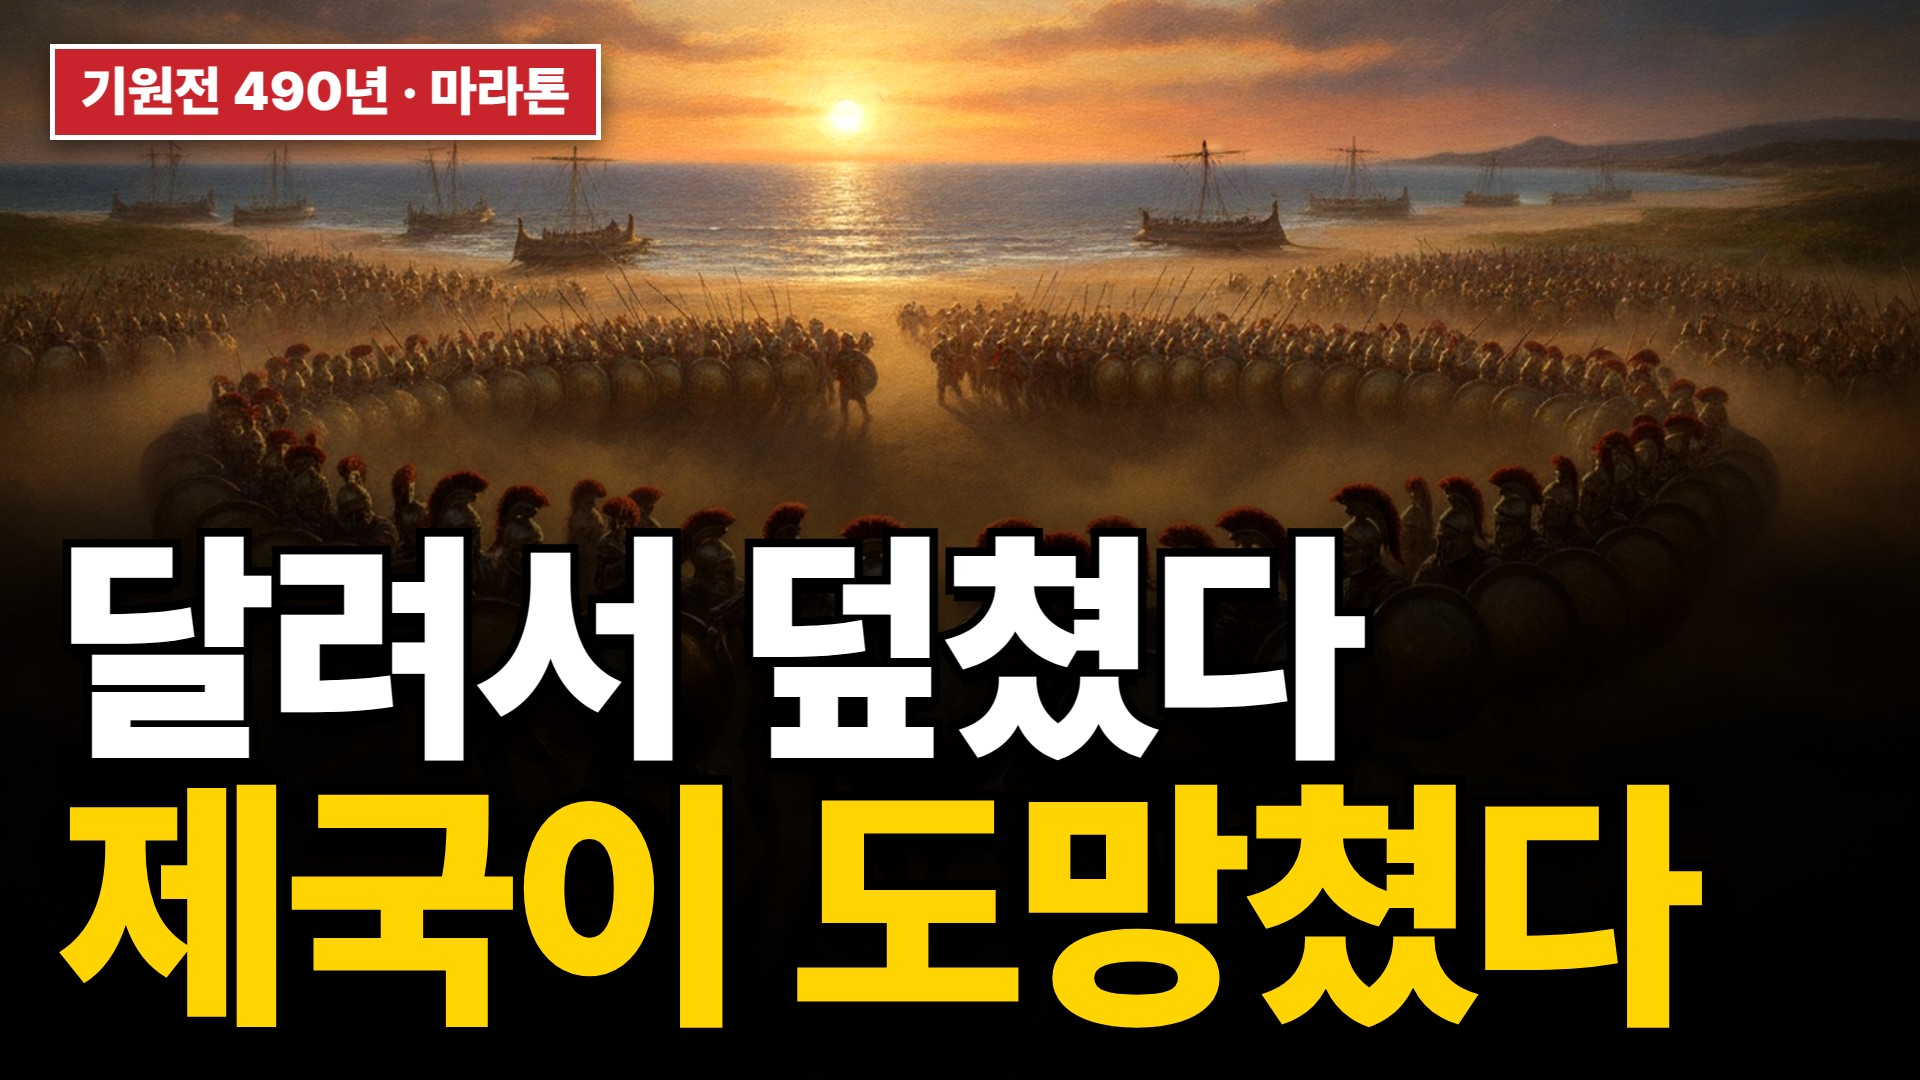
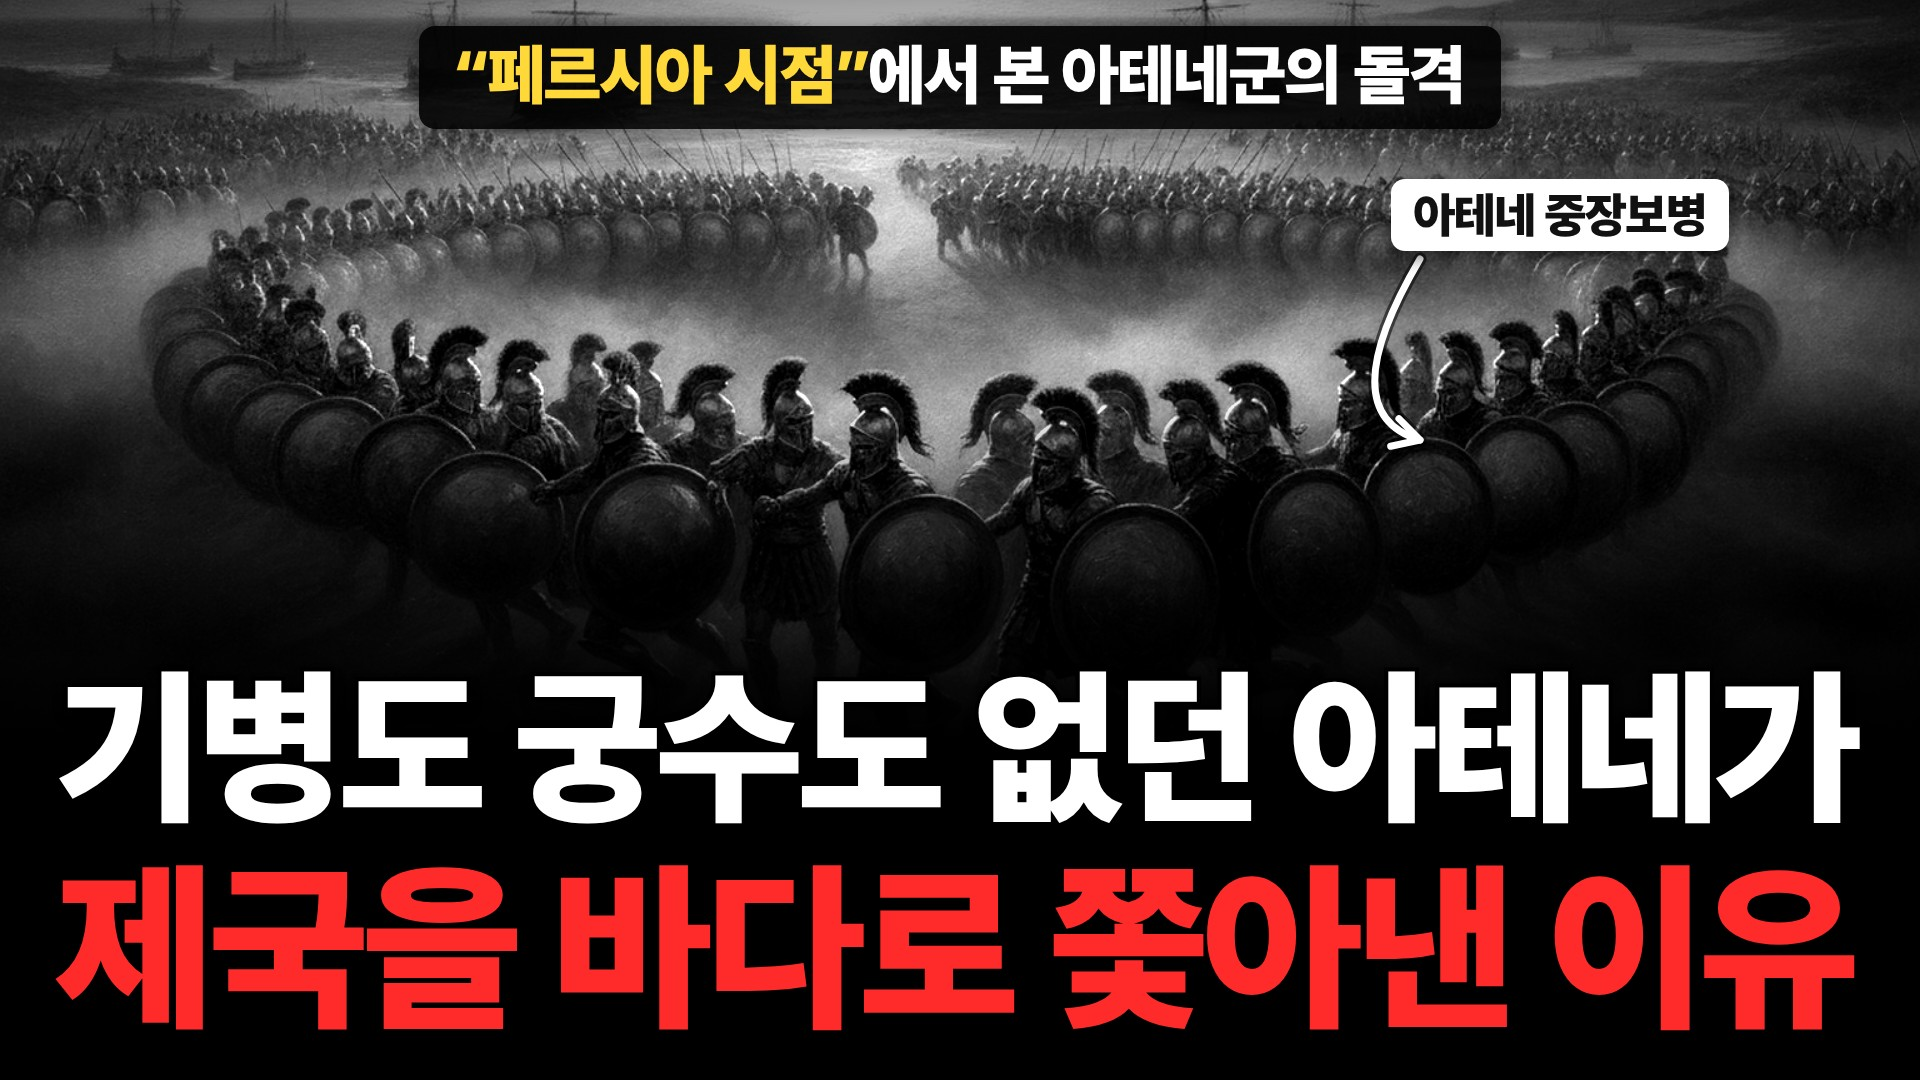
썸네일 표준 v3: 레퍼런스 '베트콩 시점' 공식 (흑백 사진 Full-Bleed · 상단 검은 박스 · 설명 라벨+화살표 · 하단 블랙 바 흰/빨강 2줄 · 재생시간 여백 제거)
Claude-Session: https://claude.ai/code/session_01SkesRQ2QoHJhKCtKZoqRh3

diff --git a/remotion/Thumbnail.tsx b/remotion/Thumbnail.tsx
@@ -1460,48 +1460,114 @@ export const ParohoThumb: React.FC<{ d: ThumbnailProps }> = ({ d }) => {
 
 
 /* =====================================================================================
- * ★★★★ 썸네일 표준 PAROHO_STD v2 (2026-11-18 사용자 지시서 docs/HOOK_STANDARD.md B항 · EP29 ep29-daejeon부터 모든 신규 롱폼 한국어 A안)
- *   - 고정 흑백 군인 얼굴 사진 전면 폐기 (반복 기시감·CTR 저하)
- *   - 에피소드 고유 메인 비주얼을 배경 전체(Full-Bleed)로 — 결정적 전황 장면(AI 재연 그림 또는 3D 지형)
- *   - 하단 다크 비네팅 위 대형 2줄 압축 카피(줄당 6~9자) — v5 대비 2.5~3배(최대 340px), 실측 폭으로 x 1720 안에 꽉 채움
- *   - 카피 프레임: '열세를 뒤집은 통쾌한 역전·기습 승리'
+ * ★★★★★ 썸네일 표준 v3 = 레퍼런스 '베트콩 시점' 공식 (2026-11-18 사용자 지시 · war-docu·map-of-war 공통 · 이후 모든 신규 롱폼 한국어 A안)
+ *   (PAROHO_V2 표 이름·필드는 그대로 두고 디자인만 교체 — 기존 등록분도 이 디자인으로 렌더)
+ *   ① 배경: 에피소드 대본 핵심 장면의 사료 사진(또는 재연 그림) Full-Bleed **흑백**(gray 기본 true) — 장면 사진 `ep/<ep>/photos/sNNN_photo_0.jpg` 그대로 지정 가능
+ *   ② 최상단 가운데: 검은 라운드 박스 한 줄 `top` — “ ” 안 문구는 노랑 강조 (예: “베트콩 시점”에서 보는 한국군의 전투력)
+ *   ③ 사진 위 흰 라벨 + 휘어진 흰 화살표 `note` {text, x, y(라벨 중심), to:[x,y](가리킬 곳)} (예: 당시 파병된 한국군)
+ *   ④ 하단: 사진이 솔리드 블랙 바닥판으로 녹아들고 그 위 2줄 카피 — Line 1 흰색 / Line 2 빨강 #FF2B2B (조금 더 크게)
+ *      글자 크기: 실측 글꼴 폭으로 좌우 56px 여백 안(1808px)을 꽉 채움, Line 2 상한 210px, Line 1은 Line 2의 94% 이하
+ *      줄당 9~13자 권장 — 120px 밑으로 내려가면 카피를 줄일 것
+ *   ⑤ 오른쪽 아래 재생시간 배지 여백 없음 (2026-11-18 사용자: 시간 표시는 넣지 않음 → 글자를 가로 끝까지)
+ *   카피 공식: top = “[적·상대] 시점”에서 본 [주인공]의 [무엇] / Line 1 = [강한 상대·불리한 전제] / Line 2 = [의외의 결과] + "~한 이유"
  * ===================================================================================== */
 export interface ThumbV2Props {
-  bg: string; // public 기준 메인 비주얼 경로 (Full-Bleed)
+  bg: string; // public 기준 배경 경로 (Full-Bleed) — 사료 사진 권장
   bgPos?: string; // object-position (기본 "50% 40%")
-  bgFilter?: string; // 기본: 살짝 대비 강조
+  bgFilter?: string; // 직접 지정하면 gray보다 우선
+  gray?: boolean; // 기본 true (흑백 다큐 사진 톤)
   line1: string; // 위 줄 (흰색)
-  line2: string; // 아래 줄 (강조색)
-  color2?: string; // 기본 #FFD400 (머스터드 옐로) — 붉은 화염 배경이면 노랑이 더 잘 보임
-  badge?: string; // 선택: 좌상단 작은 배지 (예: "1950. 7. 20 대전")
+  line2: string; // 아래 줄 (빨강)
+  color2?: string; // 기본 #FF2B2B
+  top?: string; // 최상단 검은 박스 한 줄 — “ ” 안은 노랑
+  note?: ThumbNote; // 사진 설명 라벨 + 화살표
+  badge?: string; // (이전 v2) 좌상단 붉은 배지 — 새 공식에서는 쓰지 않음
   targets?: ThumbTarget[];
   arrows?: ThumbArrow[];
-  alt?: { line1: string; line2: string; color2?: string }; // A2 카피 시안
+  alt?: { line1: string; line2: string; color2?: string; top?: string; note?: ThumbNote }; // A2 카피 시안
 }
+export type ThumbNote = { text: string; x: number; y: number; to: [number, number]; size?: number };
 export const PAROHO_V2: Record<string, ThumbV2Props> = {
-  // map-of-war(영문): 새 에피소드마다 여기에 항목을 추가하면 A안(en)이 v2 디자인으로 렌더된다. 카피는 100% 영어, 줄당 2~4단어.
-  // 예시 (war-docu EP29 대전 원본 — 배경 파일은 해당 에피소드 폴더에 있을 때만 렌더 가능):
-  // "ep01-xxx": { bg: "ep/ep01-xxx/ai/thumb_bg.jpg", bgPos: "50% 38%", line1: "THE GENERAL", line2: "KILLED A TANK", badge: "JULY 20, 1950", alt: { line1: "FIRST STRIKE", line2: "10 T-34s DOWN" } }, // ALTS:ep01-xxx
-  // EP01 마라톤 (기원전 490, 한국어판): 양익 포위 전술 비주얼 Full-Bleed — A안 = 로드맵 카피, A2 = 질문형 앵글
-  "ep01-marathon": { bg: "ep/ep01-marathon/ai/thumb_bg.jpg", bgPos: "50% 40%", line1: "달려서 덮쳤다", line2: "제국이 도망쳤다", badge: "기원전 490년 · 마라톤", alt: { line1: "기병도 궁수도 없이", line2: "어떻게 이겼을까?" } }, // ALTS:ep01-marathon
+  // 새 에피소드마다 대본 핵심 장면 사진(사료 사진이 있으면 `ep/<ep>/photos/sNNN_photo_0.jpg`, 없으면 재연 그림 thumb_bg)과
+  // 카피(top·line1·line2·note)를 이 표에 한 줄 추가 → Actions mode=thumb가 thumbnails/<ep>_ko_A.png·_ko_A2.png 렌더
+  // EP01 마라톤 (기원전 490): 고대라 사료 사진이 없어 재연 그림(thumb_bg)을 흑백으로. 헤로도토스: 아테네군에 기병·궁수 없음
+  "ep01-marathon": {
+    bg: "ep/ep01-marathon/ai/thumb_bg.jpg",
+    bgPos: "50% 45%",
+    bgFilter: "grayscale(1) contrast(1.22) brightness(1.3)", // 재연 그림이 어두워 흑백 전환 때 밝기 보정
+    top: "“페르시아 시점”에서 본 아테네군의 돌격",
+    line1: "기병도 궁수도 없던 아테네가",
+    line2: "제국을 바다로 쫓아낸 이유",
+    note: { text: "아테네 중장보병", x: 1560, y: 215, to: [1420, 440] },
+    alt: { line1: "달려서 덮쳤다", line2: "제국이 도망쳤다" }, // ALTS:ep01-marathon
+  },
 };
-const V2 = { left: 60, safeRight: 200, bottom: 40, max: 340, min: 120, gap: -0.06 };
-// 영문 카피 글꼴 (사용자 표준: 영문 Montserrat Black) — map-of-war 이식 때 추가 (2026-11-18)
-const V2_EN_FONT = "'Montserrat', 'Anton', sans-serif";
+
+const V2_EN_FONT = "'Montserrat', 'Anton', sans-serif"; // 영문판 글꼴 (참고용)
+const V3 = { side: 56, bottom: 30, max2: 210, max1: 200, min: 110, ratio1: 0.94, gap: 0.02, red: "#FF2B2B", yellow: "#FFD83A" };
+const V3TopLine: React.FC<{ text: string; size: number; font: string }> = ({ text, size, font }) => {
+  // “…” 구간(따옴표 포함)은 노랑, 나머지는 흰색
+  const parts = text.split(/(“[^”]*”|"[^"]*")/).filter(Boolean);
+  return (
+    <div style={{ position: "absolute", top: 26, left: 0, right: 0, display: "flex", justifyContent: "center" }}>
+      <div style={{ background: "rgba(0,0,0,.9)", borderRadius: 16, padding: `${Math.round(size * 0.2)}px ${Math.round(size * 0.55)}px ${Math.round(size * 0.26)}px`, fontFamily: font, fontWeight: 900, fontSize: size, lineHeight: 1.1, letterSpacing: "-0.02em", whiteSpace: "nowrap", color: "#fff", boxShadow: "0 6px 20px rgba(0,0,0,.5)" }}>
+        {parts.map((p, i) => <span key={i} style={{ color: /^[“"]/.test(p) ? V3.yellow : "#fff" }}>{p}</span>)}
+      </div>
+    </div>
+  );
+};
+const V3Note: React.FC<{ n: ThumbNote; font: string; w: number }> = ({ n, font, w }) => {
+  const size = n.size ?? 48;
+  const bw = w * size + size * 0.9;
+  const bh = size * 1.5;
+  // 라벨 가장자리(가리킬 곳 쪽)에서 출발하는 휘어진 화살표
+  const [tx, ty] = n.to;
+  const sx = Math.max(n.x - bw / 2 + 20, Math.min(n.x + bw / 2 - 20, tx));
+  const sy = ty > n.y ? n.y + bh / 2 + 8 : n.y - bh / 2 - 8;
+  const dx = tx - sx, dy = ty - sy;
+  const cx = sx + dx * 0.15 + (dy > 0 ? -1 : 1) * Math.abs(dy) * 0.5 * Math.sign(dx || 1);
+  const cy = sy + dy * 0.85;
+  const ang = Math.atan2(ty - cy, tx - cx);
+  const L = 30;
+  const head = `M ${tx} ${ty} L ${tx - L * Math.cos(ang - 0.5)} ${ty - L * Math.sin(ang - 0.5)} M ${tx} ${ty} L ${tx - L * Math.cos(ang + 0.5)} ${ty - L * Math.sin(ang + 0.5)}`;
+  const path = `M ${sx} ${sy} Q ${cx} ${cy} ${tx} ${ty}`;
+  return (
+    <>
+      <svg width={CW} height={1080} style={{ position: "absolute", inset: 0 }}>
+        {[["#000", 13, 0.55], ["#fff", 7, 1]].map(([c, sw, op], i) => (
+          <g key={i} fill="none" stroke={c as string} strokeWidth={sw as number} strokeLinecap="round" strokeLinejoin="round" opacity={op as number}>
+            <path d={path} />
+            <path d={head} />
+          </g>
+        ))}
+      </svg>
+      <div style={{ position: "absolute", left: n.x - bw / 2, top: n.y - bh / 2, width: bw, height: bh, background: "#fff", borderRadius: 14, display: "flex", alignItems: "center", justifyContent: "center", fontFamily: font, fontWeight: 900, fontSize: size, color: "#111", letterSpacing: "-0.02em", whiteSpace: "nowrap", boxShadow: "0 6px 18px rgba(0,0,0,.55)" }}>{n.text}</div>
+    </>
+  );
+};
 export const ParohoV2Thumb: React.FC<{ d: ThumbV2Props; en?: boolean }> = ({ d, en }) => {
   const font = en ? V2_EN_FONT : P5.font;
-  const measure = useP5Measure([d.line1, d.line2, d.badge || ""], en ? { load: "Montserrat", font: V2_EN_FONT } : undefined);
-  const W = CW - V2.left - V2.safeRight - 16;
-  const fit = (t: string, cap: number) => (measure ? Math.max(V2.min, Math.min(cap, Math.floor(W / Math.max(0.5, measure(t))))) : 200);
-  const s2 = fit(d.line2, V2.max);
-  const s1 = Math.min(fit(d.line1, V2.max), Math.round(s2 * 0.92));
-  const c2 = d.color2 || "#FFD400";
-  const txt = (t: string, size: number, color: string): React.ReactNode => (
+  const measure = useP5Measure([d.line1, d.line2, d.top || "", d.note?.text || "", d.alt?.line1 || ""], en ? { load: "Montserrat", font: V2_EN_FONT } : undefined);
+  const W = CW - V3.side * 2;
+  const fit = (t: string, cap: number) => (measure ? Math.max(V3.min, Math.min(cap, Math.floor(W / Math.max(0.5, measure(t))))) : 180);
+  const s2 = fit(d.line2, V3.max2);
+  const s1 = Math.min(fit(d.line1, V3.max1), Math.round(s2 * V3.ratio1));
+  const topSize = d.top && measure ? Math.max(44, Math.min(66, Math.floor(1640 / measure(d.top)))) : 60;
+  const c2 = d.color2 || V3.red;
+  const gap = Math.round(s2 * V3.gap);
+  // 글자 묶음 높이 → 블랙 바닥판(Line 1 중간부터 솔리드), 그 위로 사진이 녹아듦
+  const lh = 1.12;
+  const blockH = s1 * lh + gap + s2 * lh;
+  const textTop = 1080 - V3.bottom - blockH;
+  const solidTop = textTop + s1 * 0.5;
+  const fadeTop = textTop - 260;
+  const filter = d.bgFilter || (d.gray === false ? "contrast(1.12) saturate(1.05)" : "grayscale(1) contrast(1.18) brightness(0.96)");
+  const line = (t: string, size: number, color: string, stroke: boolean): React.ReactNode => (
     <div
       style={{
-        fontFamily: font, fontWeight: 900, fontSize: size, lineHeight: 1.0, letterSpacing: "-0.02em", color, whiteSpace: "nowrap",
-        WebkitTextStroke: `${Math.round(size * 0.07)}px #000`, paintOrder: "stroke fill",
-        textShadow: `0 ${Math.round(size * 0.03)}px 0 #000, 0 ${Math.round(size * 0.06)}px 0 #000, 0 ${Math.round(size * 0.1)}px ${Math.round(size * 0.12)}px rgba(0,0,0,.9)`,
+        fontFamily: font, fontWeight: 900, fontSize: size, lineHeight: lh, letterSpacing: "-0.02em", color, whiteSpace: "nowrap",
+        ...(stroke ? { WebkitTextStroke: `${Math.round(size * 0.05)}px #000`, paintOrder: "stroke fill" } : {}),
+        textShadow: `0 ${Math.round(size * 0.04)}px ${Math.round(size * 0.08)}px rgba(0,0,0,.95)`,
       }}
     >
       {t}
@@ -1510,20 +1576,25 @@ export const ParohoV2Thumb: React.FC<{ d: ThumbV2Props; en?: boolean }> = ({ d, 
   return (
     <AbsoluteFill style={{ background: "#000", overflow: "hidden" }}>
       <style>{`@font-face{font-family:'Pretendard';font-weight:900;font-style:normal;src:url(${staticFile("fonts/Pretendard-Black.woff2")}) format('woff2');}`}</style>
-      <Img src={staticFile(d.bg)} style={{ position: "absolute", inset: 0, width: "100%", height: "100%", objectFit: "cover", objectPosition: d.bgPos || "50% 40%", filter: d.bgFilter || "contrast(1.12) saturate(1.08)" }} />
-      {/* 하단 다크 비네팅 + 가장자리 비네트 */}
-      <AbsoluteFill style={{ background: "linear-gradient(to top, rgba(0,0,0,.96) 0%, rgba(0,0,0,.9) 30%, rgba(0,0,0,.55) 52%, rgba(0,0,0,0) 70%)" }} />
-      <AbsoluteFill style={{ background: "radial-gradient(ellipse at 50% 40%, rgba(0,0,0,0) 55%, rgba(0,0,0,.55) 100%)" }} />
+      <Img src={staticFile(d.bg)} style={{ position: "absolute", left: 0, top: 0, width: "100%", height: solidTop + 40, objectFit: "cover", objectPosition: d.bgPos || "50% 40%", filter }} />
+      {/* 가장자리 비네트 (상단 박스 가독성) */}
+      <AbsoluteFill style={{ background: "radial-gradient(ellipse at 50% 45%, rgba(0,0,0,0) 55%, rgba(0,0,0,.45) 100%)" }} />
+      <AbsoluteFill style={{ background: "linear-gradient(to bottom, rgba(0,0,0,.35) 0px, rgba(0,0,0,0) 170px)" }} />
+      {/* 하단 솔리드 블랙 바닥판 + 위쪽 페이드 */}
+      <div style={{ position: "absolute", left: 0, right: 0, top: fadeTop, height: solidTop - fadeTop, background: "linear-gradient(to bottom, rgba(0,0,0,0) 0%, rgba(0,0,0,.55) 45%, rgba(0,0,0,.92) 85%, #000 100%)" }} />
+      <div style={{ position: "absolute", left: 0, right: 0, top: solidTop, bottom: 0, background: "#000" }} />
       <svg width={CW} height={1080} style={{ position: "absolute", inset: 0 }}>
         {(d.targets || []).map((t, i) => <P5Target key={i} t={t} />)}
         {(d.arrows || []).map((a, i) => <P5Arrow key={i} a={a} />)}
       </svg>
-      {d.badge && (
+      {d.note && <V3Note n={d.note} font={font} w={measure ? measure(d.note.text) : d.note.text.length * 0.9} />}
+      {d.top && <V3TopLine text={d.top} size={topSize} font={font} />}
+      {d.badge && !d.top && (
         <div style={{ position: "absolute", left: 50, top: 44, padding: "10px 26px 12px", background: "#C9242C", border: "5px solid #fff", fontFamily: font, fontWeight: 900, fontSize: 54, color: "#fff", boxShadow: "0 8px 24px rgba(0,0,0,.6)" }}>{d.badge}</div>
       )}
-      <div style={{ position: "absolute", left: V2.left, bottom: V2.bottom, display: "flex", flexDirection: "column", gap: Math.round(s2 * V2.gap) }}>
-        {txt(d.line1, s1, "#FFFFFF")}
-        {txt(d.line2, s2, c2)}
+      <div style={{ position: "absolute", left: V3.side, top: textTop, display: "flex", flexDirection: "column", gap }}>
+        {line(d.line1, s1, "#FFFFFF", true)}
+        {line(d.line2, s2, c2, false)}
       </div>
     </AbsoluteFill>
   );

diff --git a/CLAUDE.md b/CLAUDE.md
@@ -70,6 +70,18 @@
 - **정면 전열 대열**: `troops` + `profile:[열마다 깊이]`, `side:"gr"|"pe"`, `vs:{side, profile}`, `runOn`·`bendOn`·`wrapOn`(상대의 얕은 날개 열은 wrap 때 패주해 사라짐). 라벨 `labels[].y`는 0.52 이하로(하단 자막 영역 피하기)
 - 질문 카드 줄바꿈은 `\n` (`|` 아님). 사진 `tag`는 문자열
 
+## ★★ 썸네일 표준 v3 = 레퍼런스 '베트콩 시점' 공식 (2026-11-18 사용자 지시 · war-docu·map-of-war 공통 · 이후 모든 신규 롱폼 한국어 A안 — 아래 v2·v5보다 우선)
+- 구현: `remotion/Thumbnail.tsx` `PAROHO_V2` 표(이름 그대로) → `ParohoV2Thumb`가 새 디자인으로 렌더. 기준 결과물: war-docu `thumbnails/ep29-daejeon_ko_A.png`, map-of-war `thumbnails/ep01-marathon_ko_A.png`
+- 화면 구성 (1920×1080)
+  1. **배경 = 그 편 대본의 핵심 장면 사진, 전체 화면 흑백** (`gray` 기본 true). 사료 사진이 있으면 장면 사진을 그대로 지정 `bg: "ep/<ep>/photos/sNNN_photo_0.jpg"`(스카우트 핀으로 받은 사진 — 추가 비용 0), 없으면(고대 등) 재연 그림 `ep/<ep>/ai/thumb_bg.jpg`. 어두우면 `bgFilter`로 밝기 보정
+  2. **최상단 가운데 검은 라운드 박스 한 줄 `top`** — “ ” 안은 노랑 `#FFD83A`, 나머지 흰색 (44~66px 자동)
+  3. **사진 설명 흰 라벨 + 휘어진 흰 화살표 `note`** `{text, x, y(라벨 중심), to:[x,y](가리킬 곳)}` — 라벨은 얼굴을 가리지 않게
+  4. **하단 솔리드 블랙 바닥판**(사진이 위로 260px 페이드) 위 2줄 — Line 1 흰색(얇은 검정 외곽선) / Line 2 빨강 `#FF2B2B`
+  5. **글자 크기**: 실측 글꼴 폭으로 좌우 56px 여백 안(1808px)을 꽉 채움. Line 2 상한 210px, Line 1 상한 200px·Line 2의 94% 이하, 최소 110px. **줄당 9~13자(띄어쓰기 포함)** 가 레퍼런스처럼 두 줄이 가로를 꽉 채우는 길이 — 짧으면 글자가 과하게 커지고 길면 작아짐
+  6. **재생시간 배지 여백 없음, 시간 표시도 넣지 않음** (2026-11-18 사용자 지시)
+- **카피 공식 (대본에서 도출)**: `top` = “[상대편·적] 시점”에서 본 [주인공]의 [사건] / Line 1 = [강한 상대·불리한 전제] / Line 2 = [의외의 결과] + "~한 이유". 숫자·사실은 대본에서 확인된 것만. `alt`(A2)에는 다른 앵글 카피
+- 절차: 대본·사진 핀 확정 → `PAROHO_V2`에 한 줄(`bg`·`bgPos`·`top`·`line1`·`line2`·`note`·`alt` + 줄 끝 `// ALTS:<ep>`) → Actions `mode=thumb` 또는 세션에서 `npx remotion still … Thumbnail` → PNG를 직접 열어 확인(라벨이 얼굴 안 가림, 글자 넘침 없음)
+
 ## ★ 썸네일 표준 v2 (2026-11-18 war-docu에서 이식 · `ep01`부터 영문 A안 기본 · 참고용 `ep08-chosin`은 기존 공식 유지)
 - **고정 인물 흑백 사진 폐기** (반복 기시감·CTR 저하) → **에피소드 고유 전술 비주얼을 배경 전체(Full-Bleed)로** (결정적 전황 재연 그림 `ep/<ep>/ai/thumb_bg.jpg` 또는 3D 지형)
 - **하단 다크 비네팅** + 가장자리 비네트, **고대비 2줄 핵심 카피** — 기존 대비 2.5~3배(최대 340px, 최소 120px), 실측 폭으로 좌 60px~우측 재생시간 배지 여백 200px 안을 꽉 채움, 검은 외곽선 7% + 그림자. Line 1 흰색 / Line 2 머스터드 옐로 `#FFD400`(`color2`로 변경 가능). 영문 글꼴 Montserrat Black
